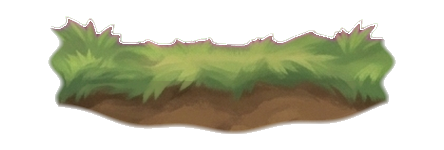
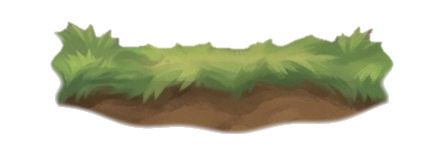
feat(layer-assembly): tách riêng nền đất không rễ, thân gỗ kèm bộ rễ liền khối và các layer quả táo lẻ ghép chùm

Changed region(s): [[0.1171, 0.1067, 0.9077, 0.4533], [0.0878, 0.2667, 0.1464, 0.4533]]

diff --git a/src/renderer/src/ui/layerAssembly/templates/naturePrompt.ts b/src/renderer/src/ui/layerAssembly/templates/naturePrompt.ts
@@ -39,10 +39,10 @@ export function naturePartBoundary(
   const hint = natureSlotBriefHint(slot, brief)
 
   if (slot.id === 'tree-roots') {
-    return `COMPLETE 4-CORNER UNCLIPPED MOSSY ROOT HILLOCK & SEAMLESS TRUNK BASE CONTINUITY — Draw a wide, low, flat-bottomed mossy earthen mound with spreading gnarled oak surface roots, keeping at least 15% pure #00FF00 background margin on ALL 4 SIDES (Left, Right, Top, Bottom). The left end, right end, and bottom edge of the mound MUST be 100% complete and organically rounded/tapered with natural overhanging grass tufts, small mossy stones, and root tips (NEVER touch or get sliced by the left, right, or bottom cell border; ZERO vertical side cuts, ZERO flat horizontal cuts). At the top-center, the roots converge smoothly upward into a SOLID, CONTINUOUS VERTICAL-BARK LOWER TRUNK COLLAR matching the exact trunk width, bark ridge lines, and warm brown color (#5A3E28–#8B6240) of [tree-trunk] (NO hollow sawed-off stump hole, NO open pipe cross-section, and NO blurry white/foggy gradient fade at the top) so [tree-trunk] locks onto [tree-roots] as one seamless tree.${hint}`
+    return `PURE 4-CORNER UNCLIPPED EARTHEN & MOSSY GRASS MOUND (NO TREE ROOTS OR WOODEN STUMP) — Draw a standalone, wide, low, flat-bottomed earthen ground mound covered with lush green moss cushions, soft grass tufts, and small mossy corner pebbles, with ZERO wooden tree roots, ZERO tree stump, and ZERO wood bark. Keep at least 15% pure #00FF00 background margin on ALL 4 SIDES (Left, Right, Top, Bottom). The left end, right end, continuous grassy top surface, and bottom rim MUST be 100% complete and organically rounded/tapered (NEVER touch or get sliced by the left, right, or bottom cell border; ZERO vertical side cuts, ZERO flat horizontal cuts, and ZERO blurry white/foggy gradient fade) so the rooted trunk [tree-trunk] rests cleanly anywhere on top of this grassy mound.${hint}`
   }
   if (slot.id === 'tree-trunk') {
-    return `STURDY GNARLED OAK TRUNK & BRANCHES WITH INTERLOCKING ROOT-BUTTRESS BASE — Draw the complete wooden trunk with spreading upper branches and a flared bottom root-buttress collar (#5A3E28–#8B6240) whose vertical bark ridges extend 15% downward to overlap and blend coaxially into the top bark collar of [tree-roots] with zero visible seam or color jump; keep at least 12% clear #00FF00 margin around all branch tips and root flares (NO leaves attached).${hint}`
+    return `COMPLETE OAK TRUNK, UPPER BRANCHES & SPRAWLING GNARLED ROOT SYSTEM IN ONE UNIFIED PIECE — Draw the entire wooden tree structure from the spreading upper branches down through the sturdy central trunk and all the way into the wide, gnarled surface roots flaring out at the bottom to grip the earth (#4A321F–#8C6239) as ONE continuous wooden piece (ALL tree roots are attached directly to [tree-trunk]; NEVER split roots onto the ground layer and NEVER cut the bottom of the trunk flat). Keep at least 12% clear #00FF00 margin around all branch tips and tapering root tips (NO leaves attached).${hint}`
   }
   if (slot.id === 'tree-foliage-back') {
     return `Complete deep-emerald background foliage crown silhouette (#14451B–#256B2C) behind the upper branches, with 100% unclipped rounded outer leaf puffs and at least 12% clear #00FF00 margin on all 4 sides (NO trunk or branches attached).${hint}`
@@ -68,8 +68,8 @@ export function naturePartBoundary(
   if (slot.id === 'tree-blossoms') {
     return `CANOPY-CONFORMING BLOSSOM CLUSTERS OVERLAY (SEAMLESS FOLIAGE FIT, NO BUSH STEMS) — Draw 6–8 organic clusters of 5-petal white-and-blush-pink blossoms distributed across the EXACT same cloud-like multi-lobe tree-crown silhouette (upper, center, left, and right puffs) as [tree-foliage-mid] and [tree-foliage-front] (NOT a hollow horseshoe arch, and NOT a ground flower bush). Border each blossom cluster with small rounded canopy leaves painted in the EXACT same emerald-to-sunlit-green palette (#246929–#76C938) as the tree's foliage layers so the flowers nestle seamlessly into the canopy; ZERO exposed bottom brown bush stems or trunk branches, 15% clear #00FF00 margin on all 4 sides.${hint}`
   }
-  if (slot.id === 'tree-fruits') {
-    return `CANOPY-CONFORMING RIPE RED APPLES OVERLAY (SEAMLESS FOLIAGE & LEAF BLEND) — Draw 14–18 proportional glossy ripe red apples arranged in 5–7 natural small sub-clusters of 2–3 apples distributed across the upper, center, left, and right puffs of the EXACT same cloud-like multi-lobe tree-crown silhouette as [tree-foliage-mid] and [tree-foliage-front] (NEVER one single giant clumped bunch in the middle, and NEVER a hollow horseshoe arch). Tuck each apple group inside small rounded oak-leaf puffs painted in the EXACT same emerald-to-sunlit-green palette (#246929–#76C938) and brush style as [tree-foliage-front] (ZERO pale olive/grey-brown leaves, ZERO thick cut branches), with 15% clear #00FF00 margin on all 4 sides.${hint}`
+  if (slot.id.startsWith('tree-fruits')) {
+    return `ISOLATED SINGLE RIPE RED APPLE SPRITE (FOR FREE STACKING & CUSTOM CLUSTERING) — Draw ONE single, isolated, plump glossy ripe red apple (#9E1414–#FF3B30) with a short brown stem and 1–2 small rounded oak leaves painted in the exact canopy emerald-to-sunlit-green palette (#246929–#76C938) attached right at the top stem (NEVER draw a giant pre-clumped bunch of fruits, NEVER draw a wide bush patch, and ZERO cut branches). Keep a crisp, self-contained single-fruit silhouette with at least 20% pure #00FF00 margin on all 4 sides so the user can stack and overlap individual fruit layers to build custom fruit clusters anywhere on the canopy.${hint}`
   }
   if (slot.id === 'rock-ground') {
     return `COMPLETE 4-CORNER UNCLIPPED EARTHEN TURF & STONE BASE MOUND — Draw a wide, low, flat-bottomed soil-and-grass base mound (NOT a pointed V-shaped floating cone) from left corner to right corner and along the bottom rim with 100% COMPLETE, NATURALLY ROUNDED AND TAPERED CORNERS (finished with overhanging grass blades, small corner pebbles, and a crisp dark-earth lower contour; keep at least 15% pure #00FF00 background margin on ALL 4 SIDES — NEVER slice the left or right ends vertically flat, NEVER cut the bottom flat, and ZERO blurry white bottom fade). Top-center forms a recessed mossy soil cradle shaped to hug the bottom contour of [rock-main] seamlessly.${hint}`
@@ -105,11 +105,11 @@ function formatNatureBriefBlock(brief?: CharacterPromptCustomBrief): string {
   const lines = [
     '\nUSER NATURE & PROP CUSTOMIZATION (HIGHEST PRIORITY — APPLY ACROSS ALL CELLS):'
   ]
-  if (app) lines.push(`- TRUNK / BOULDER & GROUND BASE (Thân cây / Khối đá & Gốc rễ đế đất): ${app}`)
+  if (app) lines.push(`- TRUNK+ROOTS / BOULDER & PURE GROUND MOUND (Thân gỗ kèm rễ cây / Khối đá & Nền đất cỏ riêng): ${app}`)
   if (cos) lines.push(`- CANOPY FOLIAGE & SEASONAL VARIANT (Tán lá / Rêu phủ / Biến thể mùa): ${cos}`)
-  if (prp) lines.push(`- FRUITS, BLOSSOMS & DETAILS (Quả chín / Hoa nở / Tinh thể phụ kiện): ${prp}`)
+  if (prp) lines.push(`- INDIVIDUAL FRUITS, BLOSSOMS & DETAILS (Quả lẻ ghép chùm / Hoa nở / Tinh thể phụ kiện): ${prp}`)
   lines.push(
-    '- CRITICAL: Apply the user specification above consistently across all cells while keeping 15% clear #00FF00 margin on all 4 edges (zero clipped corners) and seamless trunk-to-root / canopy-to-fruit alignment!'
+    '- CRITICAL: Apply the user specification above consistently across all cells while keeping 15% clear #00FF00 margin on all 4 edges (zero clipped corners), keeping [tree-roots] as a pure grassy mound without tree roots, including the full root system on [tree-trunk], and drawing [tree-fruits] as isolated single fruits for free stacking!'
   )
   return lines.join('\n')
 }
@@ -139,7 +139,7 @@ export function naturePrompt(
 
   return `Create ONE square (1:1 aspect ratio) 2.5D MODULAR NATURE CUTOUT SPRITE ATLAS: stylized 2D game-art botanical/environment layers separated for 2.5D parallax depth and wind-sway animation.
 IDENTITY: ${identity}${briefBlock}
-VIEW: FRONT ORTHOGRAPHIC VIEW (0° eye-level straight-on), consistent top-front sunlight angle across all layers so stacked canopies, trunk, roots, rocks, blossoms, and fruits form ONE unified hand-painted illustration.
+VIEW: FRONT ORTHOGRAPHIC VIEW (0° eye-level straight-on), consistent top-front sunlight angle across all layers so stacked canopies, rooted trunk, ground mound, rocks, blossoms, and individual fruits form ONE unified hand-painted illustration.
 OUTPUT: PNG at 4096x4096 (or highest native 1:1 resolution). Flat OPAQUE solid neon green chroma-key background #00FF00. No checkerboard, gradients, ground shadow, or vignette.
 GRID: Exactly 5 rows x 5 columns, numbered 1–25 left-to-right, top-to-bottom for instructions ONLY. Do not draw numbers, labels, IDs, watermarks, or grid lines.
 Exactly ${template.slots.length} isolated parts, one assigned part per cell:
@@ -151,19 +151,19 @@ Left/right follow the assembled screen positions, not anatomical left/right. Kee
 
 CRITICAL 2.5D NATURE LAYER COHESION, FULL CORNERS & SEAMLESS FITTING RULES:
 1. ZERO EDGE CLIPPING — FULL 4-CORNER SILHOUETTES (BẮT BUỘC ĐỦ GÓC CẠNH ẢNH, KHÔNG BỊ CẮT CỤT VIỀN):
-   - Every single piece — especially ground/root mounds ([tree-roots], [rock-ground], [bonsai-pot]) and wide foliage crowns — MUST be drawn as a 100% complete, self-contained silhouette with at least 15% pure #00FF00 margin on ALL 4 SIDES (Left, Right, Top, Bottom).
-   - NEVER crop, slice, or let any root tip, soil mound corner, grass tuft, stone edge, or foliage puff touch the cell border! Left, right, and bottom corners of [tree-roots] and [rock-ground] must be wide, low, flat-bottomed mounds that taper off organically at both left and right ends with rounded stones, overhanging grass blades, and natural root tips — ZERO vertical side cuts, ZERO flat horizontal bottom cuts, and ZERO blurry white/foggy gradient fades!
-2. SEAMLESS INTERLOCKING TRUNK-TO-ROOT & BOULDER-TO-GROUND JOINTS (KHỚP NỐI GỐC RỄ & ĐẾ ĐẤT ĂN KHÍT 100%):
-   - [tree-roots] and [tree-trunk] MUST be designed from ONE unified tree trunk base sharing the exact same central collar width, vertical bark ridges, and warm wood palette (#5A3E28–#8B6240).
-   - In [tree-roots], the spreading surface roots converge upward at the top-center into a solid, crisp vertical-bark lower trunk collar (NO hollow sawed-off stump hole, NO open pipe cross-section, and NO white fog erase band!). In [tree-trunk], the bottom flares into interlocking buttress roots that overlap 15% downward over [tree-roots] so trunk and roots join with zero visible seam.
+   - Every single piece — especially ground mounds ([tree-roots], [rock-ground], [bonsai-pot]) and wide foliage crowns — MUST be drawn as a 100% complete, self-contained silhouette with at least 15% pure #00FF00 margin on ALL 4 SIDES (Left, Right, Top, Bottom).
+   - NEVER crop, slice, or let any root tip, soil mound corner, grass tuft, stone edge, or foliage puff touch the cell border! Left, right, and bottom corners of [tree-roots] and [rock-ground] must be wide, low, flat-bottomed mounds that taper off organically at both left and right ends with rounded stones and overhanging grass blades — ZERO vertical side cuts, ZERO flat horizontal bottom cuts, and ZERO blurry white/foggy gradient fades!
+2. PURE GRASSY GROUND MOUND + ROOTED TRUNK IN ONE PIECE (NỀN ĐẤT RIÊNG KHÔNG CHỨA RỄ — THÂN CÂY KÈM CẢ BỘ RỄ LIỀN KHỐI):
+   - [tree-roots] MUST be a 100% pure earthen, mossy, and grassy ground mound with ZERO wooden tree roots and ZERO tree stump on it.
+   - [tree-trunk] MUST include the ENTIRE wooden tree from its upper branches down through the central trunk AND its complete sprawling, gnarled root system at the bottom in ONE unified piece (#4A321F–#8C6239). When [tree-trunk] is placed on top of the pure grassy mound [tree-roots], the tree's roots rest naturally over the grass with zero misaligned root seams!
    - [rock-ground] must feature a recessed mossy earth cradle at its top center that hugs the lower contour of [rock-main] seamlessly.
-3. CANOPY-CONFORMING FRUITS & BLOSSOMS OVERLAYS (HOA NỞ & QUẢ CHÍN ĂN KHÍT VỚI TÁN LÁ):
-   - [tree-fruits] and [tree-blossoms] MUST follow the exact same cloud-like, multi-lobe rounded tree-crown silhouette (upper, center, left, and right puffs) as [tree-foliage-mid] and [tree-foliage-front] — NEVER clump all fruits into one single central ball, and NEVER draw a hollow horseshoe arch.
-   - Any small backing leaf tufts attached to [tree-fruits] or [tree-blossoms] MUST match the exact rounded oak-leaf shape and emerald-to-sunlit-green palette (#246929–#76C938) of the tree's foliage layers, with ZERO exposed thick bottom bush stems and ZERO mismatched olive/grey-brown leaf patches.
+3. ISOLATED SINGLE FRUITS FOR FREE STACKING & CANOPY-CONFORMING BLOSSOMS (QUẢ LẺ TẺ ĐỂ GHÉP CHỒNG TẠO CHÙM & HOA NỞ ĂN KHÍT TÁN LÁ):
+   - Each fruit slot ([tree-fruits], [tree-fruits-2], etc.) MUST be drawn as ONE single, isolated, plump glossy ripe red apple with a short stem and 1–2 small green oak leaves (#246929–#76C938) at the stem — NEVER draw a pre-clumped big fruit bunch or a wide bush patch. This allows the user to freely duplicate, position, and stack/overlap individual apples in the editor to build custom fruit clusters anywhere on the canopy.
+   - [tree-blossoms] MUST follow the exact cloud-like, multi-lobe rounded tree-crown silhouette (upper, center, left, and right puffs) as [tree-foliage-mid] and [tree-foliage-front], with small backing leaves matching the canopy green (#246929–#76C938) and ZERO exposed bottom brown bush stems.
 4. CLEAN CHROMA-KEY EXTRACTION:
    - Reconstruct the complete occluded silhouette of each depth layer so 2.5D parallax camera movement and wind sway never expose raw cut gaps.
    - Crisp antialiased edges on a flat uniform chroma-key background; no blur, glow, fringe, cast shadows or ground plane.`
 }
 
 export const NATURE_PROMPT_GUIDE =
-  'Sprite Sheet nền xanh lá (#00FF00) chuẩn Cây cối & Đá tảng 2.5D bóc tách: Mọi bộ phận (đặc biệt là Đế gốc rễ [tree-roots] và Đế đất cỏ chân đá [rock-ground]) bắt buộc vẽ trọn vẹn 100% chu vi 4 góc cạnh với lề an toàn >=15% (tuyệt đối không cắt phẳng mép trái/phải/đáy, không làm mờ sương trắng hay khoét lỗ rỗng ở cổ gốc). Cổ rễ [tree-roots] và gốc thân cây [tree-trunk] dùng chung khổ rộng & vân vỏ gỗ ăn khít liền khối. Lớp Quả táo đỏ [tree-fruits] và Hoa nở [tree-blossoms] phân bố trải đều theo đúng vòm đám mây của tán lá kèm cụm lá đệm đồng bộ 100% tông xanh với tán cây.'
+  'Sprite Sheet nền xanh lá (#00FF00) chuẩn Cây cối & Đá tảng 2.5D bóc tách: Mọi bộ phận bắt buộc vẽ trọn vẹn 100% chu vi 4 góc cạnh với lề an toàn >=15% (không cắt phẳng mép trái/phải/đáy). Lớp Nền đất [tree-roots] chỉ vẽ gò đất & thảm cỏ rêu riêng biệt (không chứa rễ cây); lớp Thân gỗ [tree-trunk] đi kèm luôn cả bộ rễ cây xoè rộng liền một khối để đặt lên nền đất luôn ăn khớp tự nhiên. Các layer Quả táo đỏ [tree-fruits] vẽ thành từng quả lẻ tẻ (kèm cuống & 1–2 lá nhỏ) để bạn tự do ghép chồng nhiều quả lên nhau tạo thành chùm quả đẹp mắt trên tán cây.'

diff --git a/src/renderer/src/ui/layerAssembly/templates/naturePropTemplates.ts b/src/renderer/src/ui/layerAssembly/templates/naturePropTemplates.ts
@@ -12,31 +12,36 @@ export const TMPL_NATURE_MODULAR_TREE: LayerAssemblyTemplate = {
   category: 'nature',
   ageGroup: 'plant',
   description:
-    'Cây cổ thụ 2.5D bóc tách kèm toàn bộ các layer biến thể mùa thu & hoa anh đào riêng biệt bên trong dự án: Gốc rễ & thảm cỏ rêu nguyên vẹn đủ 4 góc cạnh ăn khớp liền mạch gốc thân cây, Thân gỗ & Cành nhánh, 3 tầng Tán lá Xanh (kèm Tán lá Vàng & Sakura ẩn sẵn), Hoa nở trắng hồng và Quả táo đỏ ăn khít vòm tán lá.',
+    'Cây cổ thụ 2.5D bóc tách kèm các layer biến thể riêng biệt bên trong dự án: Nền đất & thảm cỏ rêu riêng (không chứa rễ cây, đủ 4 góc cạnh), Thân gỗ đại thụ đi kèm cả bộ rễ cây liền khối, 3 tầng Tán lá Xanh (kèm Tán lá Vàng & Sakura ẩn sẵn), Hoa nở trắng hồng và các layer Quả táo đỏ lẻ tẻ để ghép chồng tạo chùm linh hoạt.',
   descriptionEn:
-    'Modular tree with complete unclipped 4-corner mossy root hillock and interlocking trunk collar, trunk & branches, 3 depth-layered green foliage canopies, plus private pre-aligned autumn gold and sakura canopy variant layers, canopy-conforming blossom clusters, and red apple fruit overlay.',
+    'Modular tree with complete unclipped 4-corner pure grassy earth mound (no tree roots), unified oak trunk with upper branches and sprawling gnarled roots in one piece, 3 depth-layered green foliage canopies (plus autumn gold and sakura variants), canopy-conforming blossom clusters, and individual stackable red apple layers.',
   width: 550,
   height: 600,
   slots: [
-    { id: 'tree-roots', name: '1. Gốc rễ & Thảm cỏ rêu (Đế tĩnh)', nameEn: 'Tree Roots & Mossy Ground', role: 'base', atlasCell: 1, defaultTransform: { x: 0, y: 158, z: 14, scale: 0.82, rotation: 0 }, defaultMotion: { type: 'none', speed: 1, amplitude: 0, anchor: 'bottom' }, suggestedAsset: 'nature_modular/tree_roots_moss.png', description: 'Gò đất rễ cây & thảm cỏ rêu nguyên vẹn đủ 4 góc cạnh (cách lề >=15%, không bị cắt cụt mép trái/phải/đáy), đỉnh giữa hội tụ thành cổ gốc gỗ liền mạch ăn khớp 100% với đáy thân cây (không sương mờ, không hốc rỗng)' },
+    { id: 'tree-roots', name: '1. Nền đất & Thảm cỏ rêu (Đế đất riêng, không rễ)', nameEn: 'Pure Mossy & Grassy Ground Mound', role: 'base', atlasCell: 1, defaultTransform: { x: 0, y: 162, z: 14, scale: 0.92, rotation: 0 }, defaultMotion: { type: 'none', speed: 1, amplitude: 0, anchor: 'bottom' }, suggestedAsset: 'nature_modular/tree_roots_moss.png', description: 'Gò nền đất & thảm cỏ rêu riêng biệt KHÔNG chứa rễ cây hay gốc gỗ, nguyên vẹn đủ 4 góc cạnh (cách lề >=15%, không cắt cụt mép trái/phải/đáy) để đặt thân cây có rễ lên trên luôn khớp tự nhiên' },
     { id: 'tree-foliage-back', name: '2. Tán lá xanh hậu cảnh (Z=+35)', nameEn: 'Background Green Canopy', role: 'back-foliage', atlasCell: 2, defaultTransform: { x: 0, y: -92, z: 35, scale: 1.16, rotation: 0 }, defaultMotion: { type: 'sway', speed: 0.75, amplitude: 3.5, anchor: 'bottom', phaseOffset: 0.25 }, suggestedAsset: 'nature_modular/tree_foliage_back_green.png', description: 'Tán lá xanh đậm lớp sau cùng (Z=+35) nguyên vẹn 4 góc cạnh cách lề >=12%' },
     { id: 'tree-foliage-back-gold', name: '2B. Tán lá vàng hậu cảnh (Ẩn sẵn - Bật để đổi mùa thu)', nameEn: 'Background Autumn Gold Canopy', role: 'back-foliage-alt', atlasCell: 8, defaultTransform: { x: 0, y: -92, z: 34, scale: 1.16, rotation: 0, hidden: true }, defaultMotion: { type: 'sway', speed: 0.75, amplitude: 3.5, anchor: 'bottom', phaseOffset: 0.25 }, suggestedAsset: 'nature_modular/tree_foliage_back_gold.png', description: 'Biến thể tán lá vàng hậu cảnh đồng bộ chu vi 1:1 với tán lá xanh hậu cảnh' },
-    { id: 'tree-trunk', name: '3. Thân gỗ đại thụ & Cành nhánh', nameEn: 'Main Trunk & Branches', role: 'trunk', atlasCell: 3, defaultTransform: { x: 0, y: 42, z: 4, scale: 0.8, rotation: 0 }, defaultMotion: { type: 'sway', speed: 0.6, amplitude: 1.8, anchor: 'bottom', phaseOffset: 0.05 }, suggestedAsset: 'nature_modular/tree_trunk_branches.png', description: 'Thân cây gỗ sồi và các nhánh lớn vươn lên đỡ tán lá; đáy thân loe rễ phụ phủ chồm 15% xuống khớp nối liền mạch với cổ rễ của lớp Đế gốc rễ' },
+    { id: 'tree-trunk', name: '3. Thân gỗ đại thụ & Bộ rễ cây liền khối', nameEn: 'Main Trunk, Branches & Gnarled Roots', role: 'trunk', atlasCell: 3, defaultTransform: { x: 0, y: 40, z: 4, scale: 0.82, rotation: 0 }, defaultMotion: { type: 'sway', speed: 0.6, amplitude: 1.8, anchor: 'bottom', phaseOffset: 0.05 }, suggestedAsset: 'nature_modular/tree_trunk_branches.png', description: 'Thân cây gỗ sồi đi kèm luôn cả cành nhánh phía trên VÀ bộ rễ cây xoè rộng dưới gốc thành 1 khối liền lạc (đặt đè lên trên lớp Nền đất cỏ rêu)' },
     { id: 'tree-foliage-mid', name: '4. Tán lá xanh trung cảnh (Z=-5)', nameEn: 'Midground Green Canopy', role: 'mid-foliage', atlasCell: 4, defaultTransform: { x: 0, y: -78, z: -5, scale: 1.04, rotation: 0 }, defaultMotion: { type: 'sway', speed: 0.85, amplitude: 4.5, anchor: 'bottom', phaseOffset: 0.15 }, suggestedAsset: 'nature_modular/tree_foliage_mid_green.png', description: 'Vòm tán lá xanh chính giữa thân cây dạng cụm mây nhiều múi nguyên vẹn đủ 4 góc cạnh' },
     { id: 'tree-foliage-mid-gold', name: '4B. Tán lá vàng trung cảnh (Ẩn sẵn - Bật để đổi mùa thu)', nameEn: 'Midground Autumn Gold Canopy', role: 'mid-foliage-alt', atlasCell: 9, defaultTransform: { x: 0, y: -78, z: -6, scale: 1.04, rotation: 0, hidden: true }, defaultMotion: { type: 'sway', speed: 0.85, amplitude: 4.5, anchor: 'bottom', phaseOffset: 0.15 }, suggestedAsset: 'nature_modular/tree_foliage_mid_gold.png', description: 'Biến thể tán lá vàng trung cảnh đồng bộ vòm tán 1:1 với tán lá xanh trung cảnh' },
     { id: 'tree-foliage-mid-sakura', name: '4C. Tán hoa anh đào Sakura trung cảnh (Ẩn sẵn)', nameEn: 'Midground Pink Sakura Canopy', role: 'mid-foliage-sakura', atlasCell: 10, defaultTransform: { x: 0, y: -78, z: -7, scale: 1.04, rotation: 0, hidden: true }, defaultMotion: { type: 'sway', speed: 0.85, amplitude: 4.5, anchor: 'bottom', phaseOffset: 0.15 }, suggestedAsset: 'nature_modular/tree_foliage_mid_sakura.png', description: 'Biến thể tán hoa anh đào hồng trung cảnh đồng bộ vòm tán 1:1' },
     { id: 'tree-foliage-front', name: '5. Tán lá xanh tiền cảnh đón nắng (Z=-25)', nameEn: 'Foreground Sunlit Green Canopy', role: 'front-foliage', atlasCell: 5, defaultTransform: { x: 0, y: -108, z: -25, scale: 0.86, rotation: 0 }, defaultMotion: { type: 'sway', speed: 0.95, amplitude: 5.5, anchor: 'bottom', phaseOffset: 0.4 }, suggestedAsset: 'nature_modular/tree_foliage_front_green.png', description: 'Tán lá non phía trước đón nắng xếp lớp tạo chiều sâu 2.5D' },
     { id: 'tree-foliage-front-gold', name: '5B. Tán lá vàng tiền cảnh (Ẩn sẵn - Bật để đổi mùa thu)', nameEn: 'Foreground Autumn Gold Canopy', role: 'front-foliage-alt', atlasCell: 11, defaultTransform: { x: 0, y: -108, z: -26, scale: 0.86, rotation: 0, hidden: true }, defaultMotion: { type: 'sway', speed: 0.95, amplitude: 5.5, anchor: 'bottom', phaseOffset: 0.4 }, suggestedAsset: 'nature_modular/tree_foliage_front_gold.png', description: 'Biến thể tán lá vàng tiền cảnh đồng bộ vòm tán 1:1' },
     { id: 'tree-blossoms', name: '6. Layer Hoa nở trắng hồng (Bật/Tắt)', nameEn: 'Blossom Flowers Overlay', role: 'flowers', atlasCell: 6, defaultTransform: { x: 0, y: -88, z: -35, scale: 0.92, rotation: 0, hidden: true }, defaultMotion: { type: 'sway', speed: 0.95, amplitude: 5.5, anchor: 'bottom', phaseOffset: 0.42 }, suggestedAsset: 'nature_modular/tree_blossoms_cluster.png', description: '6–8 cụm hoa 5 cánh trắng hồng phân bố trải đều theo đúng vòm đám mây của tán lá trung/tiền cảnh, cài lá đệm cùng tông xanh tán cây, không lộ cành bụi phía dưới' },
-    { id: 'tree-fruits', name: '7. Layer Quả táo đỏ chín mọng (Bật/Tắt)', nameEn: 'Red Apples Fruit Overlay', role: 'fruits', atlasCell: 7, defaultTransform: { x: 0, y: -86, z: -42, scale: 0.88, rotation: 0 }, defaultMotion: { type: 'rocking', speed: 1.1, amplitude: 4.0, anchor: 'top', phaseOffset: 0.5 }, suggestedAsset: 'nature_modular/tree_fruits_apples.png', description: '5–7 chùm nhỏ (2–3 quả táo đỏ bóng/chùm) phân bố đều khắp các múi lá trên/trái/giữa/phải của vòm tán cây, kèm lá đệm đồng bộ 100% sắc xanh lục & nét vẽ của tán lá tiền cảnh' }
+    { id: 'tree-fruits', name: '7A. Quả táo đỏ lẻ #1 (Cụm trái)', nameEn: 'Single Ripe Red Apple #1', role: 'fruits', atlasCell: 7, defaultTransform: { x: -76, y: -96, z: -40, scale: 0.3, rotation: -8 }, defaultMotion: { type: 'rocking', speed: 1.1, amplitude: 4.0, anchor: 'top', phaseOffset: 0.5 }, suggestedAsset: 'nature_modular/tree_fruits_apples.png', description: 'Quả táo đỏ chín mọng đơn lẻ kèm cuống & 2 lá xanh nhỏ (cách lề >=20%) để tự do kéo thả, nhân bản và ghép chồng tạo chùm quả theo ý thích' },
+    { id: 'tree-fruits-2', name: '7B. Quả táo đỏ lẻ #2 (Ghép chồng cụm trái)', nameEn: 'Single Ripe Red Apple #2', role: 'fruits', atlasCell: 12, defaultTransform: { x: -54, y: -84, z: -42, scale: 0.32, rotation: 6 }, defaultMotion: { type: 'rocking', speed: 1.1, amplitude: 4.0, anchor: 'top', phaseOffset: 0.55 }, suggestedAsset: 'nature_modular/tree_fruits_apples.png', description: 'Quả táo đỏ lẻ đặt ghép chồng cạnh quả #1 tạo thành chùm quả bên trái tán cây' },
+    { id: 'tree-fruits-3', name: '7C. Quả táo đỏ lẻ #3 (Đỉnh tán)', nameEn: 'Single Ripe Red Apple #3', role: 'fruits', atlasCell: 13, defaultTransform: { x: -6, y: -154, z: -41, scale: 0.29, rotation: -4 }, defaultMotion: { type: 'rocking', speed: 1.1, amplitude: 4.0, anchor: 'top', phaseOffset: 0.35 }, suggestedAsset: 'nature_modular/tree_fruits_apples.png', description: 'Quả táo đỏ lẻ điểm xuyết trên múi tán lá đỉnh cây' },
+    { id: 'tree-fruits-4', name: '7D. Quả táo đỏ lẻ #4 (Cụm phải)', nameEn: 'Single Ripe Red Apple #4', role: 'fruits', atlasCell: 14, defaultTransform: { x: 56, y: -106, z: -40, scale: 0.3, rotation: -10 }, defaultMotion: { type: 'rocking', speed: 1.1, amplitude: 4.0, anchor: 'top', phaseOffset: 0.6 }, suggestedAsset: 'nature_modular/tree_fruits_apples.png', description: 'Quả táo đỏ lẻ bên múi tán lá phải' },
+    { id: 'tree-fruits-5', name: '7E. Quả táo đỏ lẻ #5 (Ghép chồng cụm phải)', nameEn: 'Single Ripe Red Apple #5', role: 'fruits', atlasCell: 15, defaultTransform: { x: 78, y: -92, z: -43, scale: 0.32, rotation: 8 }, defaultMotion: { type: 'rocking', speed: 1.1, amplitude: 4.0, anchor: 'top', phaseOffset: 0.65 }, suggestedAsset: 'nature_modular/tree_fruits_apples.png', description: 'Quả táo đỏ lẻ ghép chồng cạnh quả #4 tạo thành chùm quả bên phải tán cây' },
+    { id: 'tree-fruits-6', name: '7F. Quả táo đỏ lẻ #6 (Tán giữa)', nameEn: 'Single Ripe Red Apple #6', role: 'fruits', atlasCell: 16, defaultTransform: { x: 16, y: -56, z: -44, scale: 0.31, rotation: 4 }, defaultMotion: { type: 'rocking', speed: 1.1, amplitude: 4.0, anchor: 'top', phaseOffset: 0.45 }, suggestedAsset: 'nature_modular/tree_fruits_apples.png', description: 'Quả táo đỏ lẻ ở tầng tán lá giữa tiền cảnh' }
   ],
   bones: [],
   clips: [],
   activeClipId: '',
   promptGuide: {
-    systemPrompt: `IDENTITY: Stylized 2D animated lush oak/fruit tree with complete 4-corner unclipped mossy root hillock seamlessly joined to the flared trunk base, bare trunk with spreading branches, 3 depth-layered cloud-like foliage canopies (plus autumn gold and pink sakura variants), and canopy-conforming blossom and ripe red apple overlays with matching green foliage leaf tufts.`,
+    systemPrompt: `IDENTITY: Stylized 2D animated lush oak/fruit tree with a standalone 4-corner unclipped mossy grass ground mound (no tree roots on the ground layer), a complete wooden oak trunk that includes both spreading upper branches and sprawling gnarled roots in one unified piece, 3 depth-layered cloud-like foliage canopies (plus autumn gold and pink sakura variants), canopy-conforming blossom clusters, and isolated single ripe red apple sprites for free stacking into custom fruit clusters.`,
     cellLayout: [],
-    userGuide: 'Toàn bộ tài nguyên gốc rễ, thân cây, tán lá xanh/vàng/sakura, hoa nở và quả táo đỏ đều được thiết kế chuẩn chỉ đủ 4 góc cạnh (cách lề >=15%) và ăn khít vòm tán lá 100%.'
+    userGuide: 'Nền đất cỏ rêu được tách riêng không chứa rễ cây, phần Thân gỗ đi kèm luôn cả bộ rễ cây liền khối, còn Quả táo đỏ là các layer quả lẻ tẻ để bạn tự do ghép chồng tạo chùm quả đẹp mắt.'
   },
   buildComposite: (images, name) => createTemplateComposite(TMPL_NATURE_MODULAR_TREE, images, name)
 }

diff --git a/src/renderer/src/ui/layerAssembly/templates/TemplatePromptModal.tsx b/src/renderer/src/ui/layerAssembly/templates/TemplatePromptModal.tsx
@@ -49,19 +49,19 @@ const CHARACTER_BRIEF_PRESETS: Array<{ label: string; brief: CharacterPromptCust
 
 const NATURE_BRIEF_PRESETS: Array<{ label: string; brief: CharacterPromptCustomBrief }> = [
   {
-    label: '🌳 Đại Thụ Sồi & Táo Đỏ (Chuẩn 4 Góc)',
+    label: '🌳 Đại Thụ Sồi & Táo Lẻ Ghép Chùm (Chuẩn 4 Góc)',
     brief: {
-      appearance: 'Ancient gnarled oak trunk with flared root buttresses locking seamlessly into a wide, low, 4-corner unclipped mossy root hillock (15% margin on all sides, no white fog at top)',
+      appearance: 'Standalone 4-corner unclipped mossy grass ground mound (no tree roots on the ground), paired with a unified ancient oak trunk that includes both upper branches and sprawling gnarled roots in one piece',
       costume: '3 depth-layered billowy emerald-to-sunlit-green oak foliage crowns (plus golden autumn and sakura pink canopy variants matching the exact contour)',
-      props: '5–7 small natural clusters of glossy ripe red apples and 6–8 white-pink blossom clusters distributed across the canopy lobes with matching green oak leaf tufts'
+      props: 'Isolated single glossy ripe red apples (with short stem & 2 small green oak leaves for free stacking into custom clusters) and 6–8 white-pink blossom clusters matching the canopy contour'
     }
   },
   {
     label: '🌸 Đại Thụ Anh Đào Cổ Thụ',
     brief: {
-      appearance: 'Graceful dark-bark cherry blossom tree trunk and wide unclipped mossy root mound with fallen petals and rounded stone corners (15% clear margin)',
+      appearance: 'Standalone 4-corner unclipped mossy ground mound with fallen petals (no tree roots), paired with a graceful cherry blossom tree trunk and its full gnarled root system in one piece',
       costume: 'Lush multi-lobe spring green and pastel sakura-pink layered foliage canopies',
-      props: 'Abundant glowing 5-petal sakura blossom garlands and golden morning dew fruits nestled seamlessly across the canopy puffs'
+      props: 'Isolated single ripe cherries/apples for stacking into clusters and abundant glowing 5-petal sakura blossom garlands nestled across the canopy puffs'
     }
   },
   {
@@ -92,7 +92,7 @@ function PromptCustomizerBox({
           <IconSparkles width={14} height={14} />
           <span>
             {isNature
-              ? 'Tuỳ chỉnh Thân/Gốc Đế, Tán Lá & Hoa Quả (Tự động gắn vào Prompt AI)'
+              ? 'Tuỳ chỉnh Nền đất riêng, Thân kèm rễ, Tán lá & Quả lẻ (Tự động gắn vào Prompt AI)'
               : 'Mô tả Tướng mạo & Quần áo Nhân vật (Tự động gắn vào Prompt AI)'}
           </span>
         </div>
@@ -123,7 +123,7 @@ function PromptCustomizerBox({
         <label className="tpm-field">
           <span className="tpm-field-label">
             {isNature
-              ? '1. Thân cây / Khối đá & Gốc rễ đế đất (Đủ 4 góc cạnh, ăn khớp gốc)'
+              ? '1. Nền đất cỏ riêng (không rễ) & Thân gỗ kèm rễ cây liền khối'
               : '1. Tướng mạo, Kiểu tóc & Biểu cảm rời'}
           </span>
           <input
@@ -131,7 +131,7 @@ function PromptCustomizerBox({
             className="input-text sm tpm-field-input"
             placeholder={
               isNature
-                ? 'VD: Gốc rễ sồi rêu phong bo tròn đủ 4 góc cạnh, cổ rễ liền mạch ăn khít đáy thân cây...'
+                ? 'VD: Nền đất cỏ rêu riêng đủ 4 góc cạnh không chứa rễ; thân gỗ sồi đi kèm luôn cả bộ rễ xoè rộng...'
                 : 'VD: Nam thanh niên tuấn tú, tóc đen rẽ ngôi, đầu gốc trơn kèm 2 biểu cảm mắt xanh...'
             }
             value={brief.appearance || ''}
@@ -159,7 +159,7 @@ function PromptCustomizerBox({
         <label className="tpm-field">
           <span className="tpm-field-label">
             {isNature
-              ? '3. Quả chín, Hoa nở ăn khít tán lá & Chi tiết phụ'
+              ? '3. Quả lẻ tẻ (để ghép chồng tạo chùm), Hoa nở & Chi tiết phụ'
               : '3. Áo choàng & Vũ khí / Đạo cụ cầm tay'}
           </span>
           <input
@@ -167,7 +167,7 @@ function PromptCustomizerBox({
             className="input-text sm tpm-field-input"
             placeholder={
               isNature
-                ? 'VD: 6 chùm táo đỏ & hoa trắng hồng phân bố đều khắp vòm tán lá kèm lá đệm cùng màu xanh...'
+                ? 'VD: Quả táo đỏ lẻ tẻ kèm 2 lá nhỏ ở cuống để ghép chồng tạo chùm, hoa trắng hồng ăn khít tán lá...'
                 : 'VD: Gọng kính cận chữ nhật rời, đồng hồ đeo tay phải...'
             }
             value={brief.props || ''}
@@ -200,7 +200,7 @@ function PromptTabContent({
       <div className="tpm-alert-banner">
         {isNature ? (
           <span>
-            💡 <strong>Chuẩn Tạo Cây Cối & Đá Tảng 2.5D Không Bị Lộ Góc Cạnh:</strong> Prompt đã được tối ưu bắt buộc AI vẽ <strong>trọn vẹn 100% chu vi 4 góc cạnh với lề xanh &gt;=15%</strong> (không cắt phẳng mép trái/phải/đáy của <em>Gốc rễ &amp; Đế đất cỏ</em>, không làm mờ trắng cổ gốc), đồng bộ vân vỏ gỗ giữa <em>Gốc rễ</em> và <em>Thân cây</em>, đồng thời phân bố <em>Quả táo đỏ &amp; Hoa nở</em> kèm lá đệm ăn khít theo đúng vòm tán lá.
+            💡 <strong>Chuẩn Cây Cối &amp; Đá Tảng 2.5D (Nền Đất Riêng · Thân Kèm Rễ · Quả Lẻ Ghép Chùm):</strong> Prompt bắt buộc AI vẽ <strong>trọn vẹn 100% chu vi 4 góc cạnh với lề xanh &gt;=15%</strong>, tách <em>Nền đất cỏ rêu riêng biệt không chứa rễ cây</em>, đưa <em>toàn bộ bộ rễ cây liền khối vào Thân gỗ</em> để đặt lên nền đất luôn khớp 100%, và vẽ <em>Quả táo đỏ thành từng quả lẻ tẻ</em> để bạn tự do ghép chồng nhiều quả lên nhau tạo chùm quả đẹp mắt.
           </span>
         ) : (
           <span>
@@ -284,25 +284,25 @@ function GuideTabContent({ template }: { template: LayerAssemblyTemplate }) {
           <div>
             <h4>Chuẩn chỉ 4 góc cạnh ảnh — Tuyệt đối không chạm viền ô (15% Safe Margin)</h4>
             <p>
-              Mọi bộ phận, đặc biệt là <strong>Gốc rễ &amp; Thảm cỏ rêu</strong> (<code>tree-roots</code>) và <strong>Đế đất &amp; Thảm cỏ chân đá</strong> (<code>rock-ground</code>), bắt buộc vẽ trọn vẹn 100% chu vi gò đất thấp đáy bằng, hai đầu trái/phải bo tròn tự nhiên bằng cụm cỏ rủ, sỏi nhỏ và chóp rễ với khoảng lề xanh <code>#00FF00</code> tối thiểu 15% ở cả 4 phía để không bao giờ bị cắt phẳng mép ảnh.
+              Mọi bộ phận, đặc biệt là <strong>Nền đất &amp; Thảm cỏ rêu</strong> (<code>tree-roots</code>) và <strong>Đế đất &amp; Thảm cỏ chân đá</strong> (<code>rock-ground</code>), bắt buộc vẽ trọn vẹn 100% chu vi gò đất thấp đáy bằng, hai đầu trái/phải bo tròn tự nhiên với khoảng lề xanh <code>#00FF00</code> tối thiểu 15% ở cả 4 phía để không bao giờ bị cắt phẳng mép ảnh.
             </p>
           </div>
         </div>
         <div className="tpm-guide-step">
           <div className="tpm-step-num">2</div>
           <div>
-            <h4>Khớp nối Gốc rễ &amp; Thân cây / Đế đất &amp; Tảng đá ăn khít 100%</h4>
+            <h4>Nền đất cỏ riêng không chứa rễ &amp; Thân cây đi kèm cả bộ rễ liền khối</h4>
             <p>
-              Phần đỉnh giữa của <code>tree-roots</code> hội tụ các rễ nổi thành cổ thân gỗ liền mạch (cùng khổ rộng, vân vỏ gỗ dọc và màu nâu gỗ <code>#5A3E28–#8B6240</code> với <code>tree-trunk</code>, tuyệt đối không làm mờ sương trắng hay khoét lỗ rỗng), giúp đáy thân cây đặt chồng lên khớp liền khối 100%.
+              Lớp <code>tree-roots</code> chỉ vẽ gò đất và thảm cỏ rêu thuần tuý (tuyệt đối không vẽ rễ cây gỗ trên nền đất). Toàn bộ bộ rễ cây xoè rộng nằm liền khối luôn với <code>tree-trunk</code> (Thân gỗ đại thụ &amp; Bộ rễ cây) để khi đặt thân cây lên nền đất cỏ luôn ăn khớp tự nhiên 100%, không bao giờ bị lệch cổ gốc.
             </p>
           </div>
         </div>
         <div className="tpm-guide-step">
           <div className="tpm-step-num">3</div>
           <div>
-            <h4>Layer Quả táo đỏ &amp; Hoa nở trắng hồng ăn khít vòm tán lá</h4>
+            <h4>Layer Quả táo đỏ lẻ tẻ — Tự do ghép chồng tạo chùm quả đẹp mắt</h4>
             <p>
-              Thay vì gom thành 1 cụm đơn lẻ ở giữa hay lộ cành bụi phía dưới, <code>tree-fruits</code> và <code>tree-blossoms</code> được phân bố thành 5–8 chùm nhỏ trải đều theo đúng chu vi vòm mây nhiều múi của tán lá trung/tiền cảnh, kèm các cụm lá đệm vẽ đúng tông xanh lục bảo – xanh nắng (<code>#246929–#76C938</code>) để hoà quyện tự nhiên vào tán cây.
+              Thay vì vẽ sẵn cả một mảng chùm quả cứng nhắc, mỗi layer quả (<code>tree-fruits</code>, <code>tree-fruits-2</code>...) là <strong>một quả táo đỏ chín mọng đơn lẻ</strong> kèm cuống và 1–2 chiếc lá xanh nhỏ. Bạn có thể tự do kéo thả, nhân bản và xếp chồng nhiều quả lên nhau để tạo chùm quả 2–3 trái tại bất kỳ múi tán lá nào.
             </p>
           </div>
         </div>

diff --git a/src/renderer/src/ui/layerAssembly/layerAssemblyDefaultComposites.ts b/src/renderer/src/ui/layerAssembly/layerAssemblyDefaultComposites.ts
@@ -20,18 +20,18 @@ export const BUILTIN_COMPOSITES: LayerComposite[] = [
     name: 'Cây Đại Thụ Bóc Tách (Đổi Tán Lá Xanh / Vàng / Hoa / Quả)',
     category: 'nature',
     description:
-      'Cây cổ thụ 2.5D bóc tách kèm các layer biến thể mùa thu & hoa anh đào riêng theo dự án: Gốc rễ rêu phong, Thân gỗ & Cành nhánh, 3 tầng Tán lá Xanh (kèm Tán lá Vàng & Sakura ẩn sẵn để bật/tắt đổi mùa trong tab Layer), kèm Layer Hoa nở và Layer Quả táo đỏ.',
+      'Cây cổ thụ 2.5D bóc tách kèm các layer biến thể riêng theo dự án: Nền đất & thảm cỏ rêu riêng (không chứa rễ cây), Thân gỗ đại thụ kèm cả bộ rễ cây liền khối, 3 tầng Tán lá Xanh (kèm Tán lá Vàng & Sakura ẩn sẵn để đổi mùa), Hoa nở trắng hồng và 6 layer Quả táo đỏ lẻ tẻ để ghép chồng tạo chùm quả.',
     width: 550,
     height: 600,
     layers: [
       {
         id: 'tree-roots',
-        name: '1. Gốc rễ & Thảm cỏ rêu (Đế tĩnh)',
+        name: '1. Nền đất & Thảm cỏ rêu (Đế đất riêng, không rễ)',
         assetPath: 'nature_modular/tree_roots_moss.png',
         x: 0,
-        y: 158,
+        y: 162,
         z: 14,
-        scale: 0.82,
+        scale: 0.92,
         rotation: 0,
         opacity: 1,
         motion: { type: 'none', speed: 1, amplitude: 0, anchor: 'bottom' }
@@ -63,12 +63,12 @@ export const BUILTIN_COMPOSITES: LayerComposite[] = [
       },
       {
         id: 'tree-trunk',
-        name: '3. Thân gỗ đại thụ & Cành nhánh',
+        name: '3. Thân gỗ đại thụ & Bộ rễ cây liền khối',
         assetPath: 'nature_modular/tree_trunk_branches.png',
         x: 0,
-        y: 42,
+        y: 40,
         z: 4,
-        scale: 0.8,
+        scale: 0.82,
         rotation: 0,
         opacity: 1,
         motion: { type: 'sway', speed: 0.6, amplitude: 1.8, anchor: 'bottom', phaseOffset: 0.05 }
@@ -151,15 +151,75 @@ export const BUILTIN_COMPOSITES: LayerComposite[] = [
       },
       {
         id: 'tree-fruits',
-        name: '7. Layer Quả táo đỏ chín mọng (Bật/Tắt)',
+        name: '7A. Quả táo đỏ lẻ #1 (Cụm trái)',
         assetPath: 'nature_modular/tree_fruits_apples.png',
-        x: 0,
-        y: -86,
-        z: -42,
-        scale: 0.88,
-        rotation: 0,
+        x: -76,
+        y: -96,
+        z: -40,
+        scale: 0.3,
+        rotation: -8,
         opacity: 1,
         motion: { type: 'rocking', speed: 1.1, amplitude: 4.0, anchor: 'top', phaseOffset: 0.5 }
+      },
+      {
+        id: 'tree-fruits-2',
+        name: '7B. Quả táo đỏ lẻ #2 (Ghép chồng cụm trái)',
+        assetPath: 'nature_modular/tree_fruits_apples.png',
+        x: -54,
+        y: -84,
+        z: -42,
+        scale: 0.32,
+        rotation: 6,
+        opacity: 1,
+        motion: { type: 'rocking', speed: 1.1, amplitude: 4.0, anchor: 'top', phaseOffset: 0.55 }
+      },
+      {
+        id: 'tree-fruits-3',
+        name: '7C. Quả táo đỏ lẻ #3 (Đỉnh tán)',
+        assetPath: 'nature_modular/tree_fruits_apples.png',
+        x: -6,
+        y: -154,
+        z: -41,
+        scale: 0.29,
+        rotation: -4,
+        opacity: 1,
+        motion: { type: 'rocking', speed: 1.1, amplitude: 4.0, anchor: 'top', phaseOffset: 0.35 }
+      },
+      {
+        id: 'tree-fruits-4',
+        name: '7D. Quả táo đỏ lẻ #4 (Cụm phải)',
+        assetPath: 'nature_modular/tree_fruits_apples.png',
+        x: 56,
+        y: -106,
+        z: -40,
+        scale: 0.3,
+        rotation: -10,
+        opacity: 1,
+        motion: { type: 'rocking', speed: 1.1, amplitude: 4.0, anchor: 'top', phaseOffset: 0.6 }
+      },
+      {
+        id: 'tree-fruits-5',
+        name: '7E. Quả táo đỏ lẻ #5 (Ghép chồng cụm phải)',
+        assetPath: 'nature_modular/tree_fruits_apples.png',
+        x: 78,
+        y: -92,
+        z: -43,
+        scale: 0.32,
+        rotation: 8,
+        opacity: 1,
+        motion: { type: 'rocking', speed: 1.1, amplitude: 4.0, anchor: 'top', phaseOffset: 0.65 }
+      },
+      {
+        id: 'tree-fruits-6',
+        name: '7F. Quả táo đỏ lẻ #6 (Tán giữa)',
+        assetPath: 'nature_modular/tree_fruits_apples.png',
+        x: 16,
+        y: -56,
+        z: -44,
+        scale: 0.31,
+        rotation: 4,
+        opacity: 1,
+        motion: { type: 'rocking', speed: 1.1, amplitude: 4.0, anchor: 'top', phaseOffset: 0.45 }
       }
     ]
   },

diff --git a/src/renderer/src/ui/layerAssembly/templates/layerAssemblyTemplates.test.ts b/src/renderer/src/ui/layerAssembly/templates/layerAssemblyTemplates.test.ts
@@ -168,14 +168,15 @@ describe('Layer Assembly Templates Catalog', () => {
     expect(customPrompt).toContain('Match user\'s described accessory/weapon/prop: "Cầm quạt xếp thiết phiến và đeo kiếm báu"')
   })
 
-  it('enforces full 4-corner unclipped margins, trunk-to-root continuity, and canopy-conforming fruit/blossom leaf blending in nature prompts', async () => {
+  it('enforces full 4-corner unclipped margins, pure ground mound without roots, rooted trunk in one piece, and isolated stackable fruits in nature prompts', async () => {
     const { buildTemplatePromptWithBrief } = await import('./characterPrompt')
     const treeTmpl = findLayerTemplate('tmpl-nature-modular-tree')!
     const rockTmpl = findLayerTemplate('tmpl-nature-modular-rock')!
 
     const treePrompt = treeTmpl.promptGuide.systemPrompt
-    expect(treePrompt).toContain('COMPLETE 4-CORNER UNCLIPPED MOSSY ROOT HILLOCK & SEAMLESS TRUNK BASE CONTINUITY')
-    expect(treePrompt).toContain('CANOPY-CONFORMING RIPE RED APPLES OVERLAY (SEAMLESS FOLIAGE & LEAF BLEND)')
+    expect(treePrompt).toContain('PURE 4-CORNER UNCLIPPED EARTHEN & MOSSY GRASS MOUND (NO TREE ROOTS OR WOODEN STUMP)')
+    expect(treePrompt).toContain('COMPLETE OAK TRUNK, UPPER BRANCHES & SPRAWLING GNARLED ROOT SYSTEM IN ONE UNIFIED PIECE')
+    expect(treePrompt).toContain('ISOLATED SINGLE RIPE RED APPLE SPRITE (FOR FREE STACKING & CUSTOM CLUSTERING)')
     expect(treePrompt).toContain('CANOPY-CONFORMING BLOSSOM CLUSTERS OVERLAY (SEAMLESS FOLIAGE FIT, NO BUSH STEMS)')
     expect(treePrompt).toContain('ZERO EDGE CLIPPING — FULL 4-CORNER SILHOUETTES')
 
@@ -184,11 +185,11 @@ describe('Layer Assembly Templates Catalog', () => {
     expect(rockPrompt).toContain('NEVER slice the left or right ends vertically flat')
 
     const customTreePrompt = buildTemplatePromptWithBrief(treeTmpl, {
-      appearance: 'Gốc rễ cổ thụ rêu xanh bo tròn 4 góc',
+      appearance: 'Nền đất cỏ rêu riêng không rễ, thân gỗ kèm bộ rễ xoè rộng',
       costume: 'Tán lá xanh ngọc bích bồng bềnh',
-      props: 'Quả táo đỏ chín mọng cài lá xanh'
+      props: 'Quả táo đỏ lẻ tẻ ghép chồng tạo chùm'
     })
     expect(customTreePrompt).toContain('USER NATURE & PROP CUSTOMIZATION')
-    expect(customTreePrompt).toContain('Gốc rễ cổ thụ rêu xanh bo tròn 4 góc')
+    expect(customTreePrompt).toContain('Nền đất cỏ rêu riêng không rễ, thân gỗ kèm bộ rễ xoè rộng')
   })
 })

diff --git a/src/renderer/src/ui/layerAssembly/layerAssemblyStorage.ts b/src/renderer/src/ui/layerAssembly/layerAssemblyStorage.ts
@@ -13,7 +13,7 @@ export const COMPOSITE_CATEGORIES: LayerCompositeCategory[] = [
 ]
 
 const STORAGE_KEY = 'pxs.layerComposites'
-const SEED_VERSION = 'v24_nature_prompt_and_full_corner_assets'
+const SEED_VERSION = 'v25_nature_pure_ground_rooted_trunk_single_fruits'
 const SEED_KEY = 'pxs.layerComposites.seeded_version'
 const DELETED_KEY = 'pxs.layerComposites.deleted'
 
